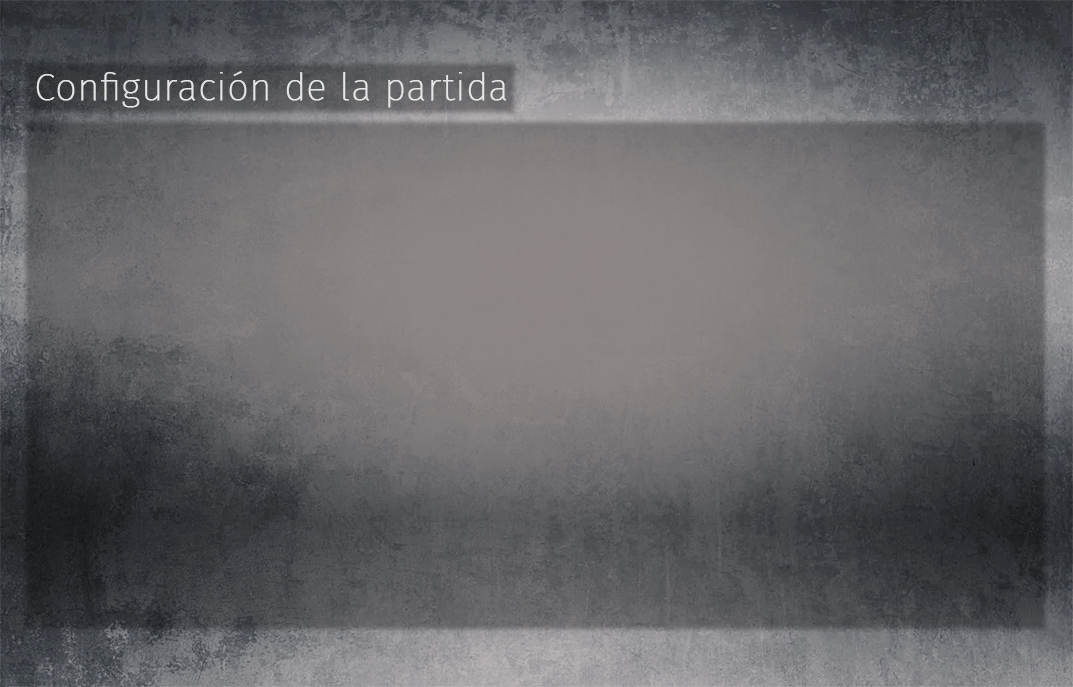
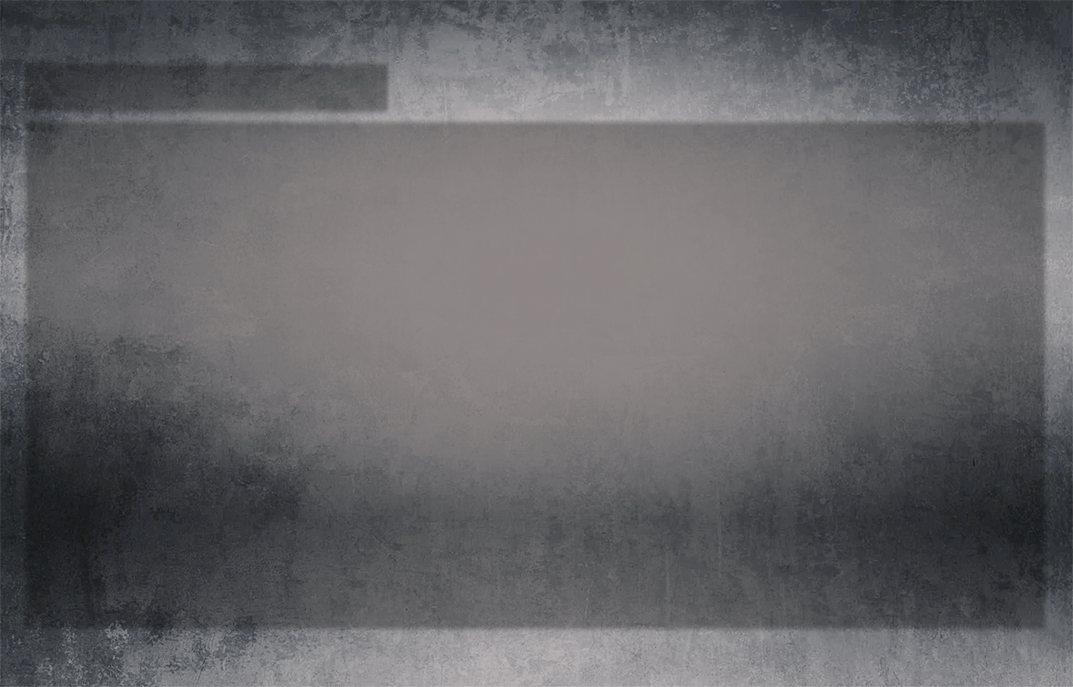
Pruebas de unidad agregadas y algunos cambios extras.

Changed region(s): [[0.0308, 0.0917, 0.4921, 0.1834]]

diff --git a/DOST/GameConfigurationWindow.xaml b/DOST/GameConfigurationWindow.xaml
@@ -10,7 +10,7 @@
         Title="{x:Static p:Resources.ConfigureGameWindowTitle}" Height="687" Width="1073" WindowStyle="None" ResizeMode="NoResize" WindowStartupLocation="CenterScreen">
     <Grid>
         <Image HorizontalAlignment="Left" Height="687" VerticalAlignment="Top" Width="1073" Source="Images/DOST_GameConfiguration.png" Stretch="Fill"/>
-        <Label Content="Categorías" HorizontalAlignment="Left" Margin="48,145,0,0" VerticalAlignment="Top" Foreground="#DDECECEC" FontSize="22"/>
+        <Label Content="{x:Static p:Resources.CategoriesText}" HorizontalAlignment="Left" Margin="48,145,0,0" VerticalAlignment="Top" Foreground="#DDECECEC" FontSize="22"/>
         <ItemsControl x:Name="categoriesItemsControl" ItemsSource="{Binding CategoriesList}" Grid.IsSharedSizeScope="True" Margin="48,189,43,86" Background="#33000000">
             <ItemsControl.ItemTemplate>
                 <DataTemplate>
@@ -37,5 +37,6 @@
         <Button x:Name="guardarButton" Content="{x:Static p:Resources.SaveButton}" HorizontalAlignment="Left" Margin="899,641,0,0" VerticalAlignment="Top" Width="145" Click="GuardarButton_Click"/>
         <Button x:Name="addButton" Content="{x:Static p:Resources.AddButton}" HorizontalAlignment="Left" Margin="885,145,0,0" VerticalAlignment="Top" Width="145" Click="AddButton_Click"/>
         <Button x:Name="cancelButton" Content="{x:Static p:Resources.CancelButton}" HorizontalAlignment="Left" Margin="734,641,0,0" VerticalAlignment="Top" Width="145" Click="CancelButton_Click"/>
+        <TextBlock HorizontalAlignment="Left" Margin="39,70,0,0" TextWrapping="Wrap" Text="{x:Static p:Resources.GameConfigurationText}" VerticalAlignment="Top" Foreground="White" Height="36" Width="470" FontSize="24" TextAlignment="Left"/>
     </Grid>
 </Window>

diff --git a/DOST/Cuenta.cs b/DOST/Cuenta.cs
@@ -35,30 +35,6 @@ namespace DOST {
 
         public Cuenta(int id) {
             this.id = id;
-            /*EngineNetwork.Send(EngineNetwork.CreatePackage(new object[] {
-                (byte) NetworkClientRequests.GetAccountData, id
-            }));
-            var package = EngineNetwork.ReceiveMultipleData();
-            if (package.Count < 1) {
-                return;
-            }
-            if (!package[0].ContainsKey("code")) {
-                return;
-            } else if (byte.Parse(package[0]["code"]) != (byte) NetworkServerResponses.AccountData) {
-                return;
-            }
-            package.RemoveAll(x => x.ContainsKey("code"));
-            var accountData = package[0];
-            if (accountData.Count > 0) {
-                id = int.Parse(accountData["idcuenta"]);
-                usuario = accountData["usuario"];
-                password = accountData["password"];
-                correo = accountData["correo"];
-                monedas = int.Parse(accountData["monedas"]);
-                fechaCreacion = DateTime.Parse(accountData["fechaCreacion"]);
-                confirmada = (accountData["confirmado"] == "1") ? true : false;
-                codigoValidacion = accountData["codigoValidacion"];
-            }*/
         }
 
         public Cuenta(string usuario, string password) {
@@ -83,18 +59,18 @@ namespace DOST {
         public bool Login() {
             return EngineNetwork.EstablishChannel<ICuentaService>((loginService) => {
                 var cuenta = loginService.TryLogin(usuario, password);
+                id = cuenta.Id;
+                confirmada = cuenta.Confirmada;
                 if (cuenta.Id == 0) {
                     return false;
                 } else if (!cuenta.Confirmada) {
                     return false;
                 }
-                id = cuenta.Id;
                 usuario = cuenta.Usuario;
                 password = cuenta.Password;
                 correo = cuenta.Correo;
                 monedas = cuenta.Monedas;
                 fechaCreacion = cuenta.FechaCreacion;
-                confirmada = cuenta.Confirmada;
                 codigoValidacion = cuenta.CodigoValidacion;
                 return true;
             });
@@ -107,10 +83,6 @@ namespace DOST {
                 );
                 return registerService.SignUp(cuenta);
             });
-        }
-
-        public void Logout() {
-
         }
 
         public bool JoinGame(Partida game, bool asAnfitrion) {

diff --git a/DOST.UnitTests/ClientTests.cs b/DOST.UnitTests/ClientTests.cs
@@ -1,0 +1,37 @@
+using System;
+using System.ServiceModel;
+using DOST.Services;
+using Microsoft.VisualStudio.TestTools.UnitTesting;
+using static DOST.GameLobbyWindow;
+
+namespace DOST.UnitTests {
+    [TestClass]
+    public class ClientTests {
+        [TestMethod]
+        public void LoginCuentaTest() {
+            Cuenta cuenta = new Cuenta("Frey", "2506");
+            Assert.AreEqual(true, cuenta.Login());
+        }
+
+        [TestMethod]
+        public void RegisterCuentaTest() {
+            Cuenta cuenta = new Cuenta(0, "TestUsuario", "1234", "test@test.com", 0, DateTime.Now, false, null);
+            Assert.AreEqual(true, cuenta.Register());
+        }
+
+        [TestMethod]
+        public void BroadcastChatMessage() {
+            System.Windows.Controls.ListBox listBox = new System.Windows.Controls.ListBox();
+            var callbackHandler = new ChatCallbackHandler(new Partida(1, 0, DateTime.Now, new System.Collections.Generic.List<Jugador>()), listBox);
+            InstanceContext chatInstance = new InstanceContext(callbackHandler);
+            ChatServiceClient chatService = new ChatServiceClient(chatInstance);
+            chatService.Open();
+            if (chatService.State == CommunicationState.Opened) {
+                chatService.EnterChat(1, "Frey");
+                chatService.BroadcastMessage(1, "Frey", "Mensaje de prueba");
+            }
+            System.Threading.Thread.Sleep(1000);
+            Assert.AreEqual("Mensaje de prueba", callbackHandler.LastMessageReceived);
+        }
+    }
+}

diff --git a/DOST/GameLobbyWindow.xaml.cs b/DOST/GameLobbyWindow.xaml.cs
@@ -66,12 +66,14 @@ namespace DOST {
         public class ChatCallbackHandler : IChatServiceCallback {
             private Partida partida;
             private ListBox chatListBox;
+            public string LastMessageReceived;
             public ChatCallbackHandler(Partida partida, ListBox chatListBox) {
                 this.partida = partida;
                 this.chatListBox = chatListBox;
             }
             public void BroadcastMessage(int idpartida, string username, string message) {
-                if (idpartida == partida.Id) {    
+                if (idpartida == partida.Id) {
+                    LastMessageReceived = message;
                     chatListBox.Items.Add(new TextBlock() {
                         Text = username + ": " + message
                     });

diff --git a/DOST.UnitTests/Properties/AssemblyInfo.cs b/DOST.UnitTests/Properties/AssemblyInfo.cs
@@ -1,0 +1,20 @@
+using System.Reflection;
+using System.Runtime.CompilerServices;
+using System.Runtime.InteropServices;
+
+[assembly: AssemblyTitle("DOST.UnitTests")]
+[assembly: AssemblyDescription("")]
+[assembly: AssemblyConfiguration("")]
+[assembly: AssemblyCompany("")]
+[assembly: AssemblyProduct("DOST.UnitTests")]
+[assembly: AssemblyCopyright("Copyright ©  2019")]
+[assembly: AssemblyTrademark("")]
+[assembly: AssemblyCulture("")]
+
+[assembly: ComVisible(false)]
+
+[assembly: Guid("9aa7329e-028d-440c-b9f5-409f5253fc1b")]
+
+// [assembly: AssemblyVersion("1.0.*")]
+[assembly: AssemblyVersion("1.0.0.0")]
+[assembly: AssemblyFileVersion("1.0.0.0")]

diff --git a/DOST.Services/ChatService.cs b/DOST.Services/ChatService.cs
@@ -12,7 +12,8 @@ namespace DOST.Services {
             new Dictionary<int, Dictionary<string, IChatServiceCallback>>();
 
         public void BroadcastMessage(int idpartida, string username, string message) {
-            var playersInGame = gamesClients[idpartida];
+            //var playersInGame = gamesClients[idpartida];
+            var playersInGame = gamesClients.First(game => game.Key == idpartida).Value;
             foreach (var client in playersInGame) {
                 client.Value.BroadcastMessage(idpartida, username, message);
             }

diff --git a/DOST/MainMenuWindow.xaml.cs b/DOST/MainMenuWindow.xaml.cs
@@ -63,7 +63,6 @@ namespace DOST {
         }
 
         private void LogoutButton_Click(object sender, RoutedEventArgs e) {
-            Session.Cuenta.Logout();
             Session.Cuenta = null;
             Session.MainMenu = null;
             Session.Login.Show();
